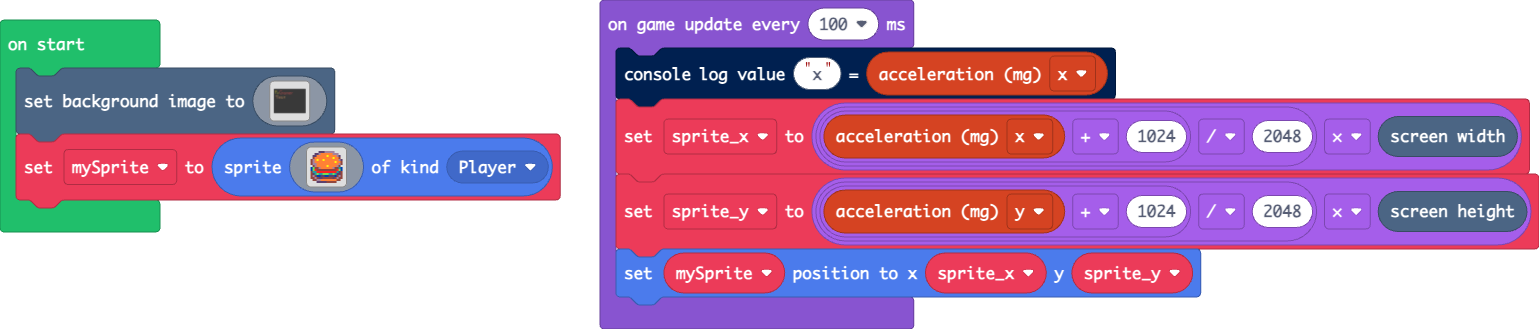
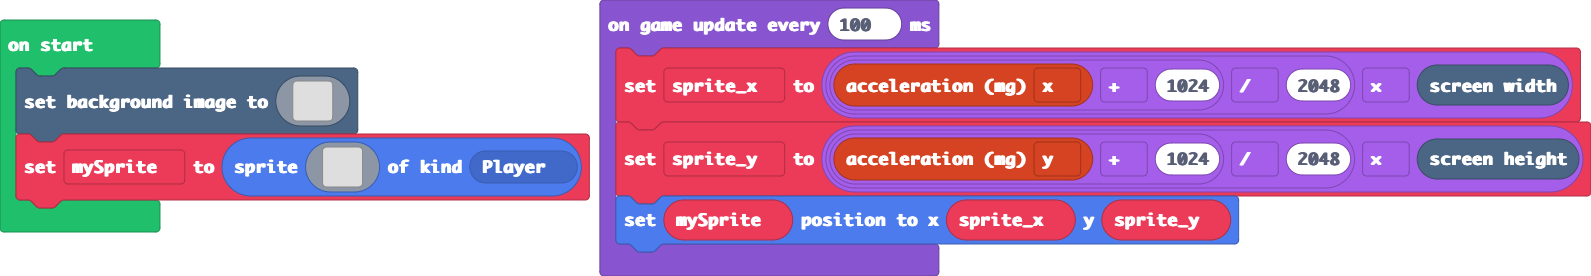
cleanup console

diff --git a/main.ts b/main.ts
@@ -20,7 +20,6 @@ let mySprite = sprites.create(img`
     . . . c c c c c e e e e e . . . 
     `, SpriteKind.Player)
 game.onUpdateInterval(100, function () {
-    console.logValue("x", controller.acceleration(ControllerDimension.X))
     sprite_x = (controller.acceleration(ControllerDimension.X) + 1024) / 2048 * scene.screenWidth()
     sprite_y = (controller.acceleration(ControllerDimension.Y) + 1024) / 2048 * scene.screenHeight()
     mySprite.setPosition(sprite_x, sprite_y)
